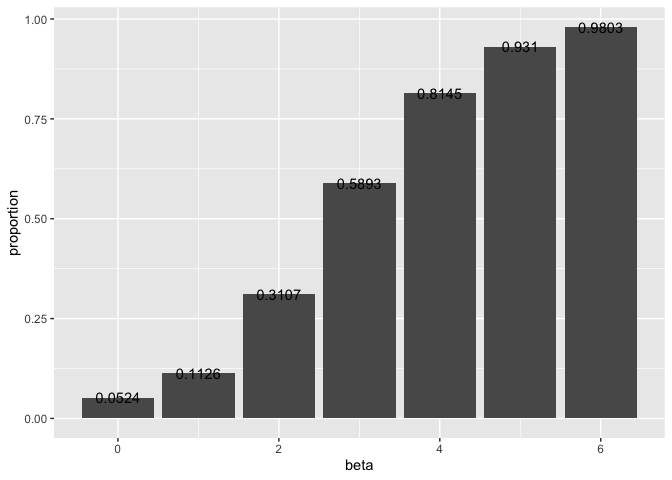
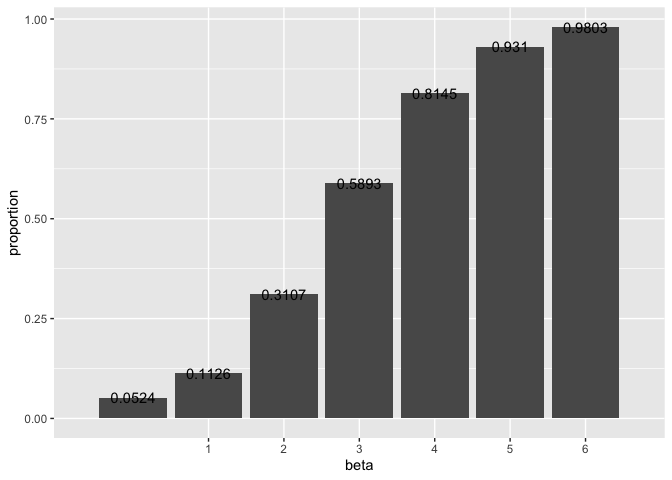
problem 3 done

diff --git a/p8105_hw5_cx2227.md b/p8105_hw5_cx2227.md
@@ -304,10 +304,47 @@ bind_rows(sim_results_beta1_0, sim_results_beta1_1, sim_results_beta1_2, sim_res
   
   ggplot(aes(x = beta, y = proportion)) +
   geom_bar(stat = "identity")+
+  scale_x_discrete(limits=c("1","2","3","4","5","6"))+
   geom_text(aes(label=proportion))
 ```
 
 ![](p8105_hw5_cx2227_files/figure-gfm/unnamed-chunk-5-1.png)<!-- -->
 
   - From the bar chart, we can see that as the effect size grows, more
-    and more false null hypothesis got rejected.
+    and more false null hypothesis got
+rejected.
+
+<!-- end list -->
+
+``` r
+reject_summary = bind_rows(sim_results_beta1_0, sim_results_beta1_1, sim_results_beta1_2, sim_results_beta1_3, sim_results_beta1_4, sim_results_beta1_5, sim_results_beta1_6) %>% 
+  filter(p_value < 0.05) %>% 
+  group_by(beta) %>% 
+  summarize(avg_beta1 = mean(beta1_hat))
+
+reject_summary %>%   
+ggplot(aes(x = beta, y = avg_beta1)) + 
+  geom_point(data = reject_summary)
+```
+
+![](p8105_hw5_cx2227_files/figure-gfm/unnamed-chunk-6-1.png)<!-- -->
+
+``` r
+bind_rows(sim_results_beta1_0, sim_results_beta1_1, sim_results_beta1_2, sim_results_beta1_3, sim_results_beta1_4, sim_results_beta1_5, sim_results_beta1_6) %>% 
+  group_by(beta) %>% 
+  summarize(avg_beta1 = mean(beta1_hat)) %>% 
+  
+  ggplot(aes(x = beta, y = avg_beta1)) + 
+  geom_point()
+```
+
+![](p8105_hw5_cx2227_files/figure-gfm/unnamed-chunk-6-2.png)<!-- -->
+
+  - Is the sample average of β̂ 1 across tests for which the null is
+    rejected approximately equal to the true value of β1? Why or why
+    not?
+  - The sample average of β̂ 1 across tests for which the null is
+    rejected is not approximately equal to the true value. Because
+    larger the effective size, more false null hypothesis got rejected.
+    These rejected beta have p-value less than 0.05 will not be a good
+    estimator of the ture value.
